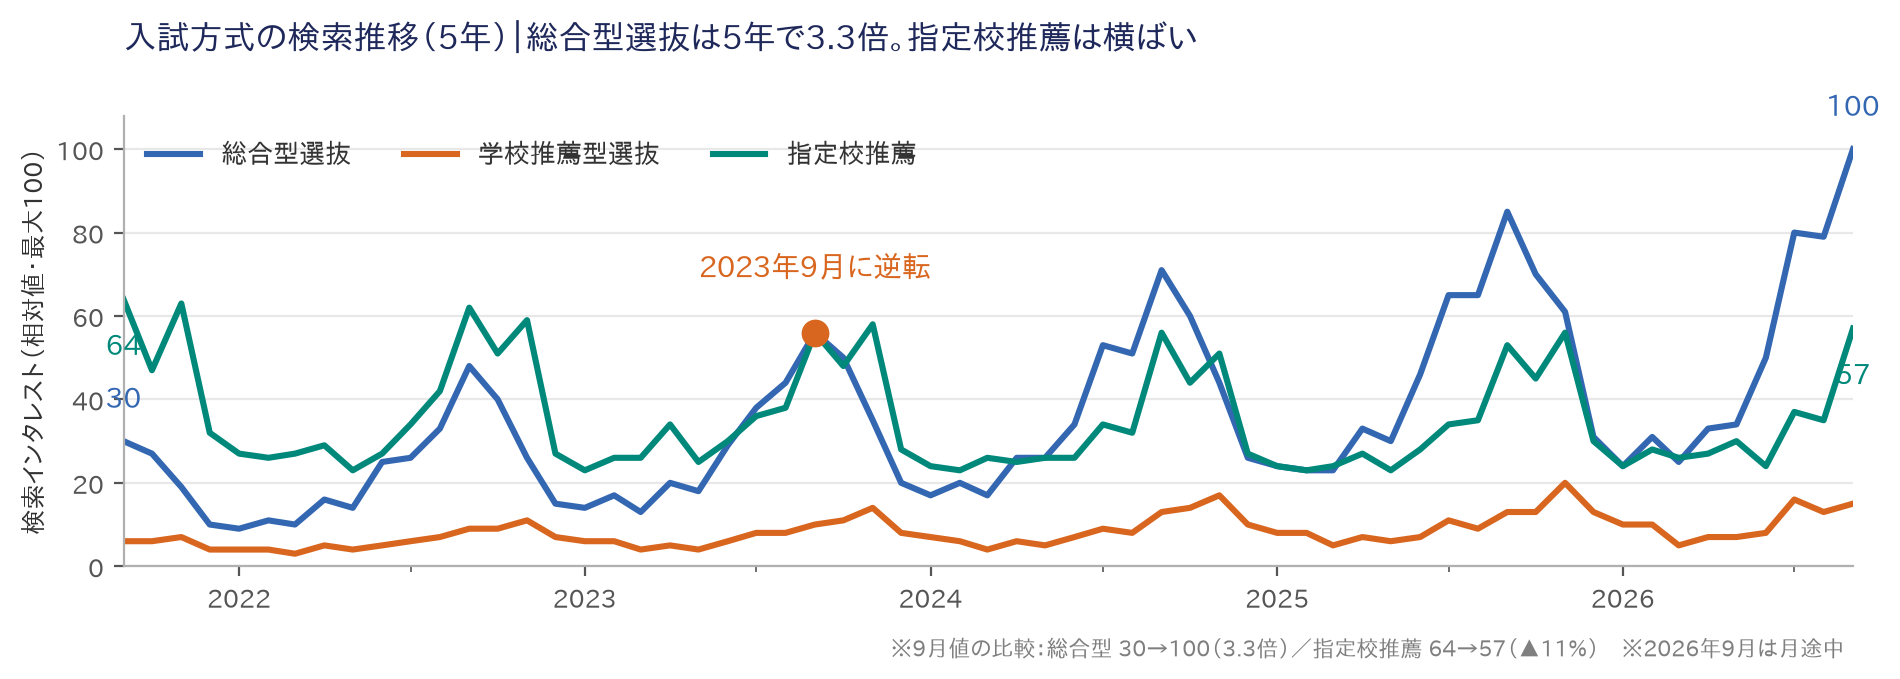
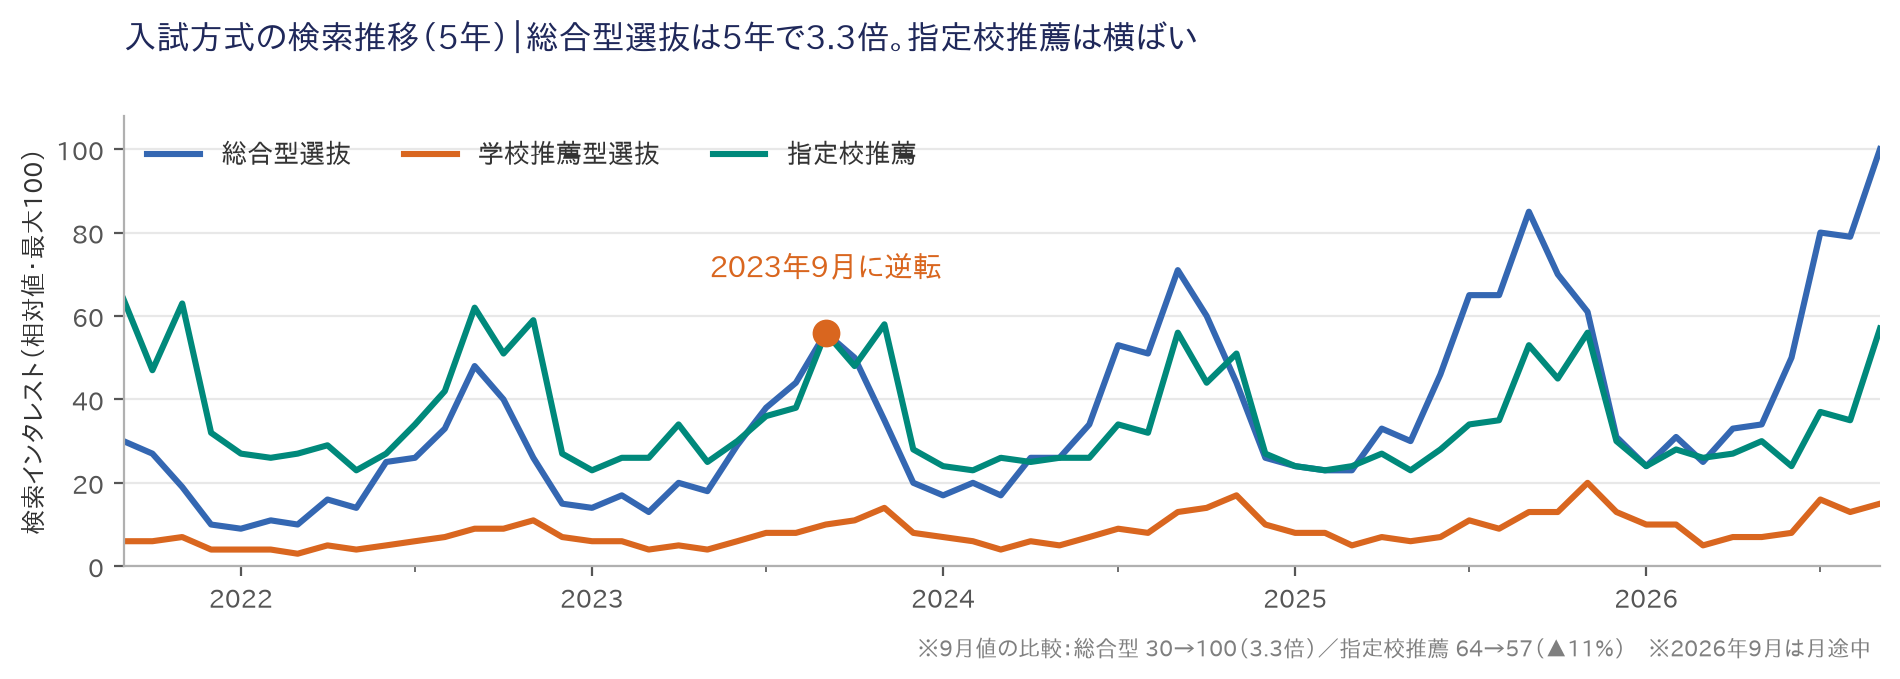
学校法人：トレンド図版のラベル重なりを修正
Claude-Session: https://claude.ai/code/session_01MtsUe9Gsd4C8NPQfT7ubn7

diff --git a/_build/make_images_gakkou.py b/_build/make_images_gakkou.py
@@ -151,7 +151,7 @@ ax.annotate(f"{d2[i50]:%-m/%-d}週で半分（{v[i50]}）", xy=(d2[i50], v[i50])
 i20 = next(k for k, x in enumerate(v) if x >= 20)
 vline(ax, d2[i20], f"動き出し\n{d2[i20]:%-m/%-d}週", y=92)
 ax.axvspan(d2[i20], d2[i50], color=ORANGE, alpha=0.07, zorder=0)
-ax.annotate("仕込みの窓＝5週間", xy=(d2[i20] + (d2[i50] - d2[i20]) / 2, 84),
+ax.annotate("仕込みの窓＝5週間", xy=(d2[i20] + (d2[i50] - d2[i20]) / 2, 70),
             ha="center", fontsize=10, color=ORANGE, fontweight="bold")
 ax.annotate("お盆で一度落ちる", xy=(d2[v.index(25)], 25), xytext=(4, 14),
             textcoords="offset points", fontsize=9, color=MUT)
@@ -171,15 +171,7 @@ for k, name in enumerate(h3):
 base(ax, d3)
 yearly_axis(ax)
 i_so, i_si = h3.index("総合型選抜"), h3.index("指定校推薦")
-# 9月値の推移を注記
-for y, dy in [(2021, 12), (2026, 12)]:
-    i = next(k for k, dt in enumerate(d3) if dt.year == y and dt.month == 9)
-    ax.annotate(f"{c3[i_so][i]}", xy=(d3[i], c3[i_so][i]), xytext=(0, dy),
-                textcoords="offset points", ha="center", fontsize=10,
-                color=SERIES[i_so], fontweight="bold")
-    ax.annotate(f"{c3[i_si][i]}", xy=(d3[i], c3[i_si][i]), xytext=(0, -20),
-                textcoords="offset points", ha="center", fontsize=10,
-                color=SERIES[i_si], fontweight="bold")
+# 9月値（グラフ両端）は軸外に出るので注記せず、脚注に逃がす
 # 逆転点（2023-09 で 56 : 56）
 ix = next(k for k, dt in enumerate(d3) if dt.year == 2023 and dt.month == 9)
 ax.plot(d3[ix], c3[i_so][ix], "o", color=ORANGE, ms=9, zorder=6)
